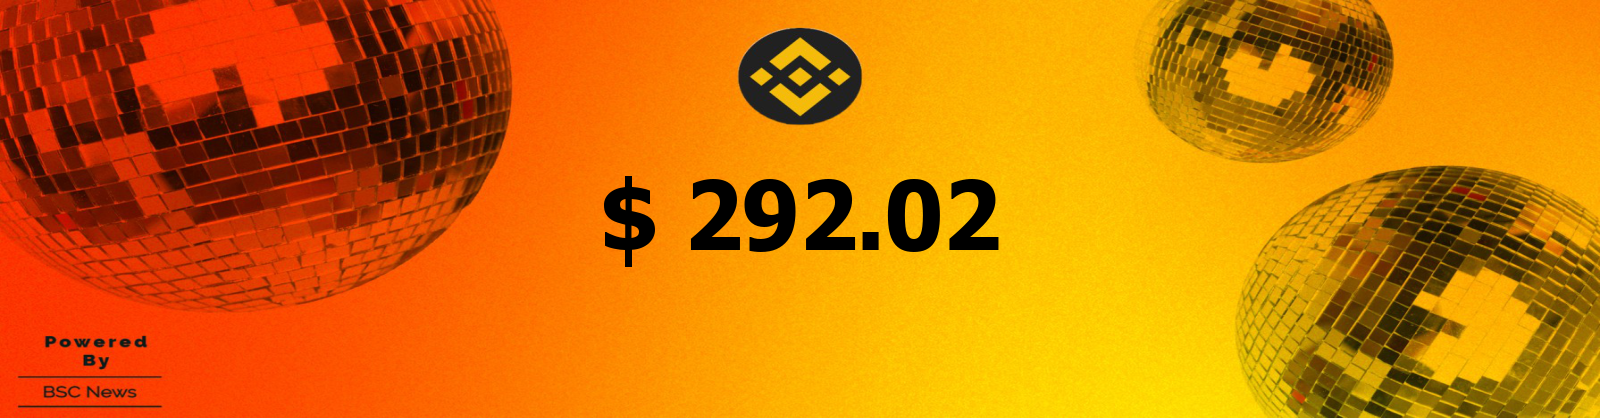
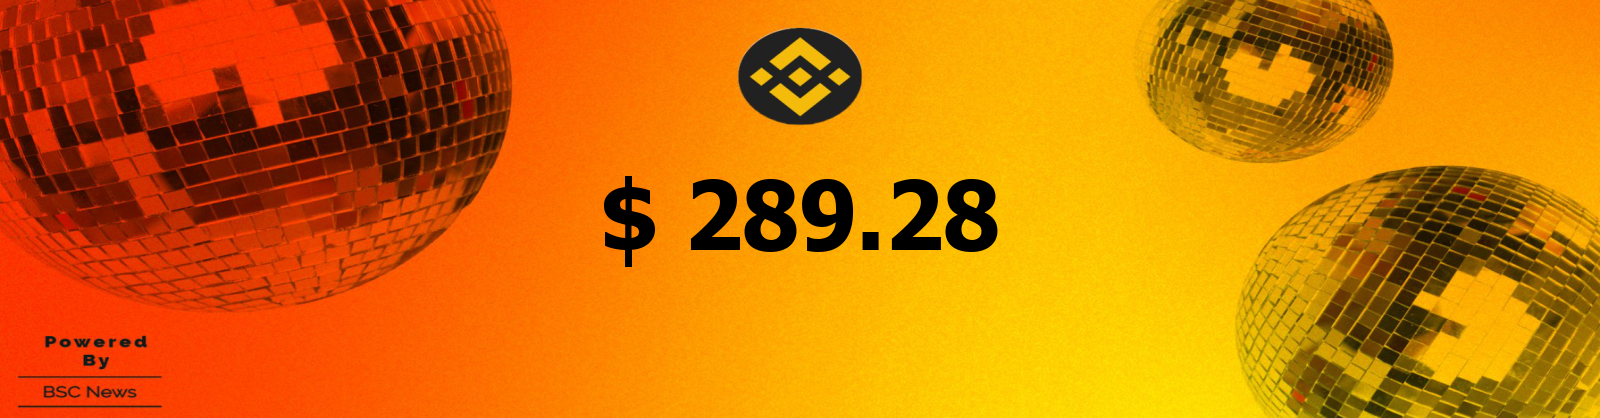
Fetch Issue solved

Changed region(s): [[0.4375, 0.4354, 0.625, 0.622]]

diff --git a/server/index.js b/server/index.js
@@ -32,10 +32,12 @@ const run = async (runType)=>{
             await createImage(price,side)
             await tweet(tweet)
 
-        }
-
         prevBNBPrice = price
         prevUpdatedDate = new Date()
+
+        }
+
+        
 
     }else if(runType==='opening'){
         let currentDate = new Date()

diff --git a/server/CoinGecko.js b/server/CoinGecko.js
@@ -1,3 +1,5 @@
+const fetch = require('node-fetch');
+
 
 exports.getBnbPrice = async () =>{
   var requestOptions = {
